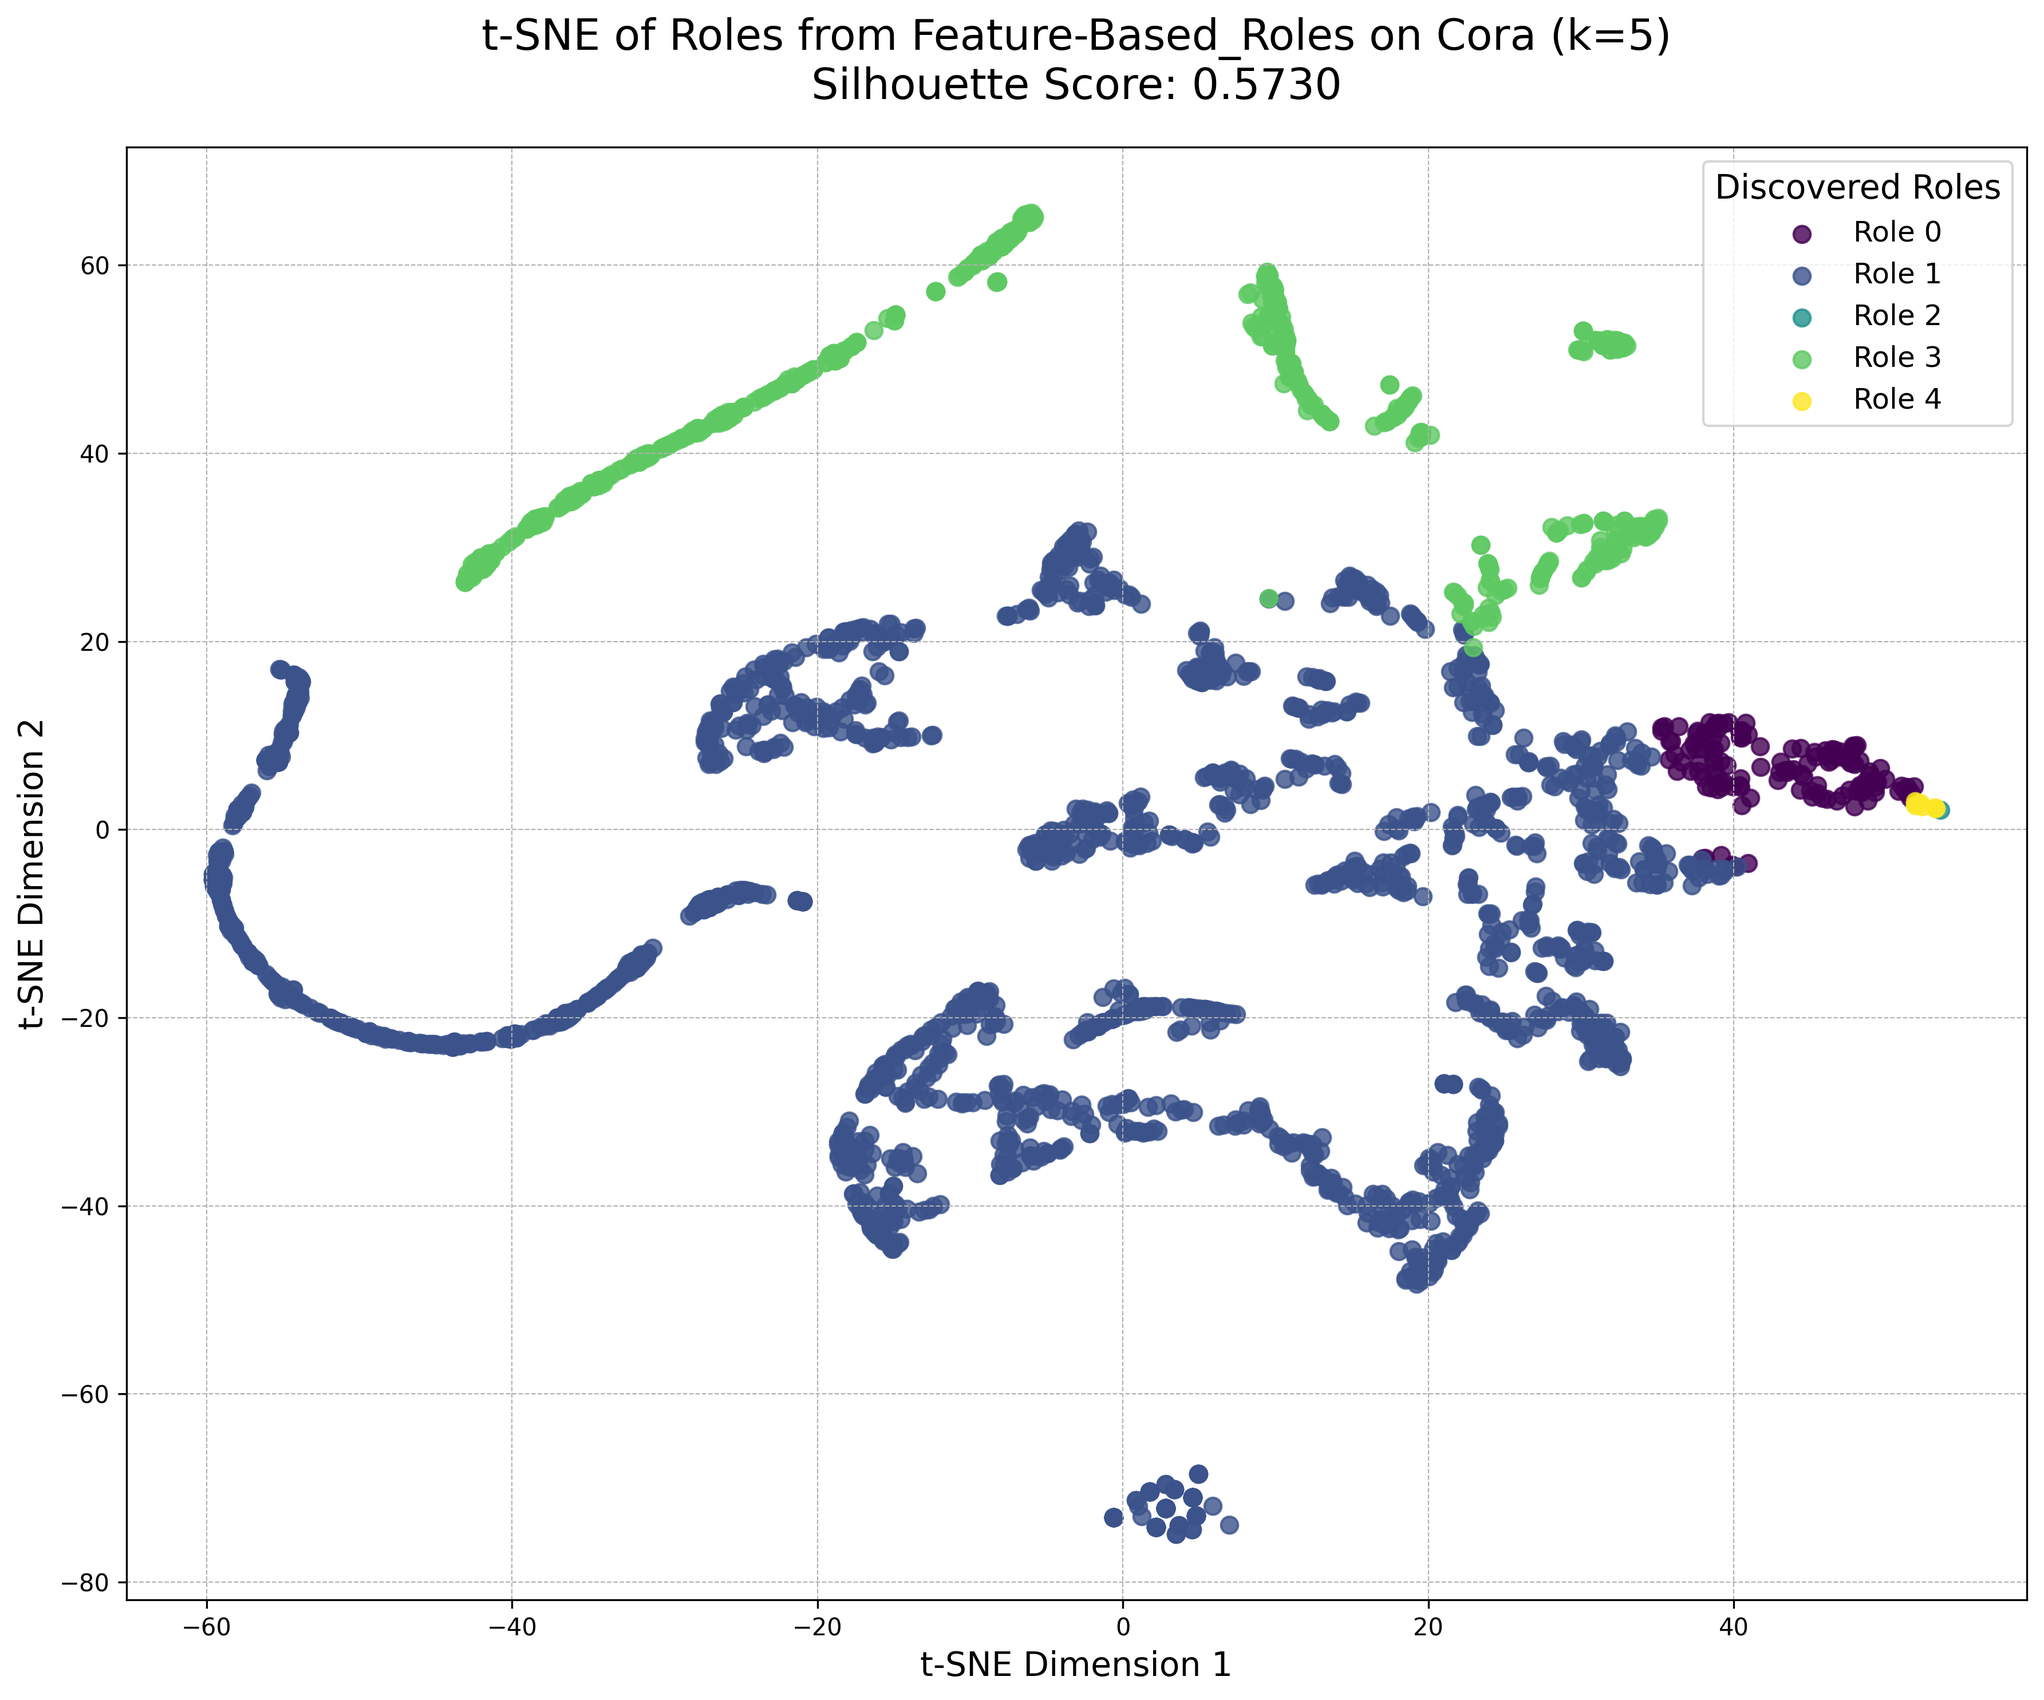
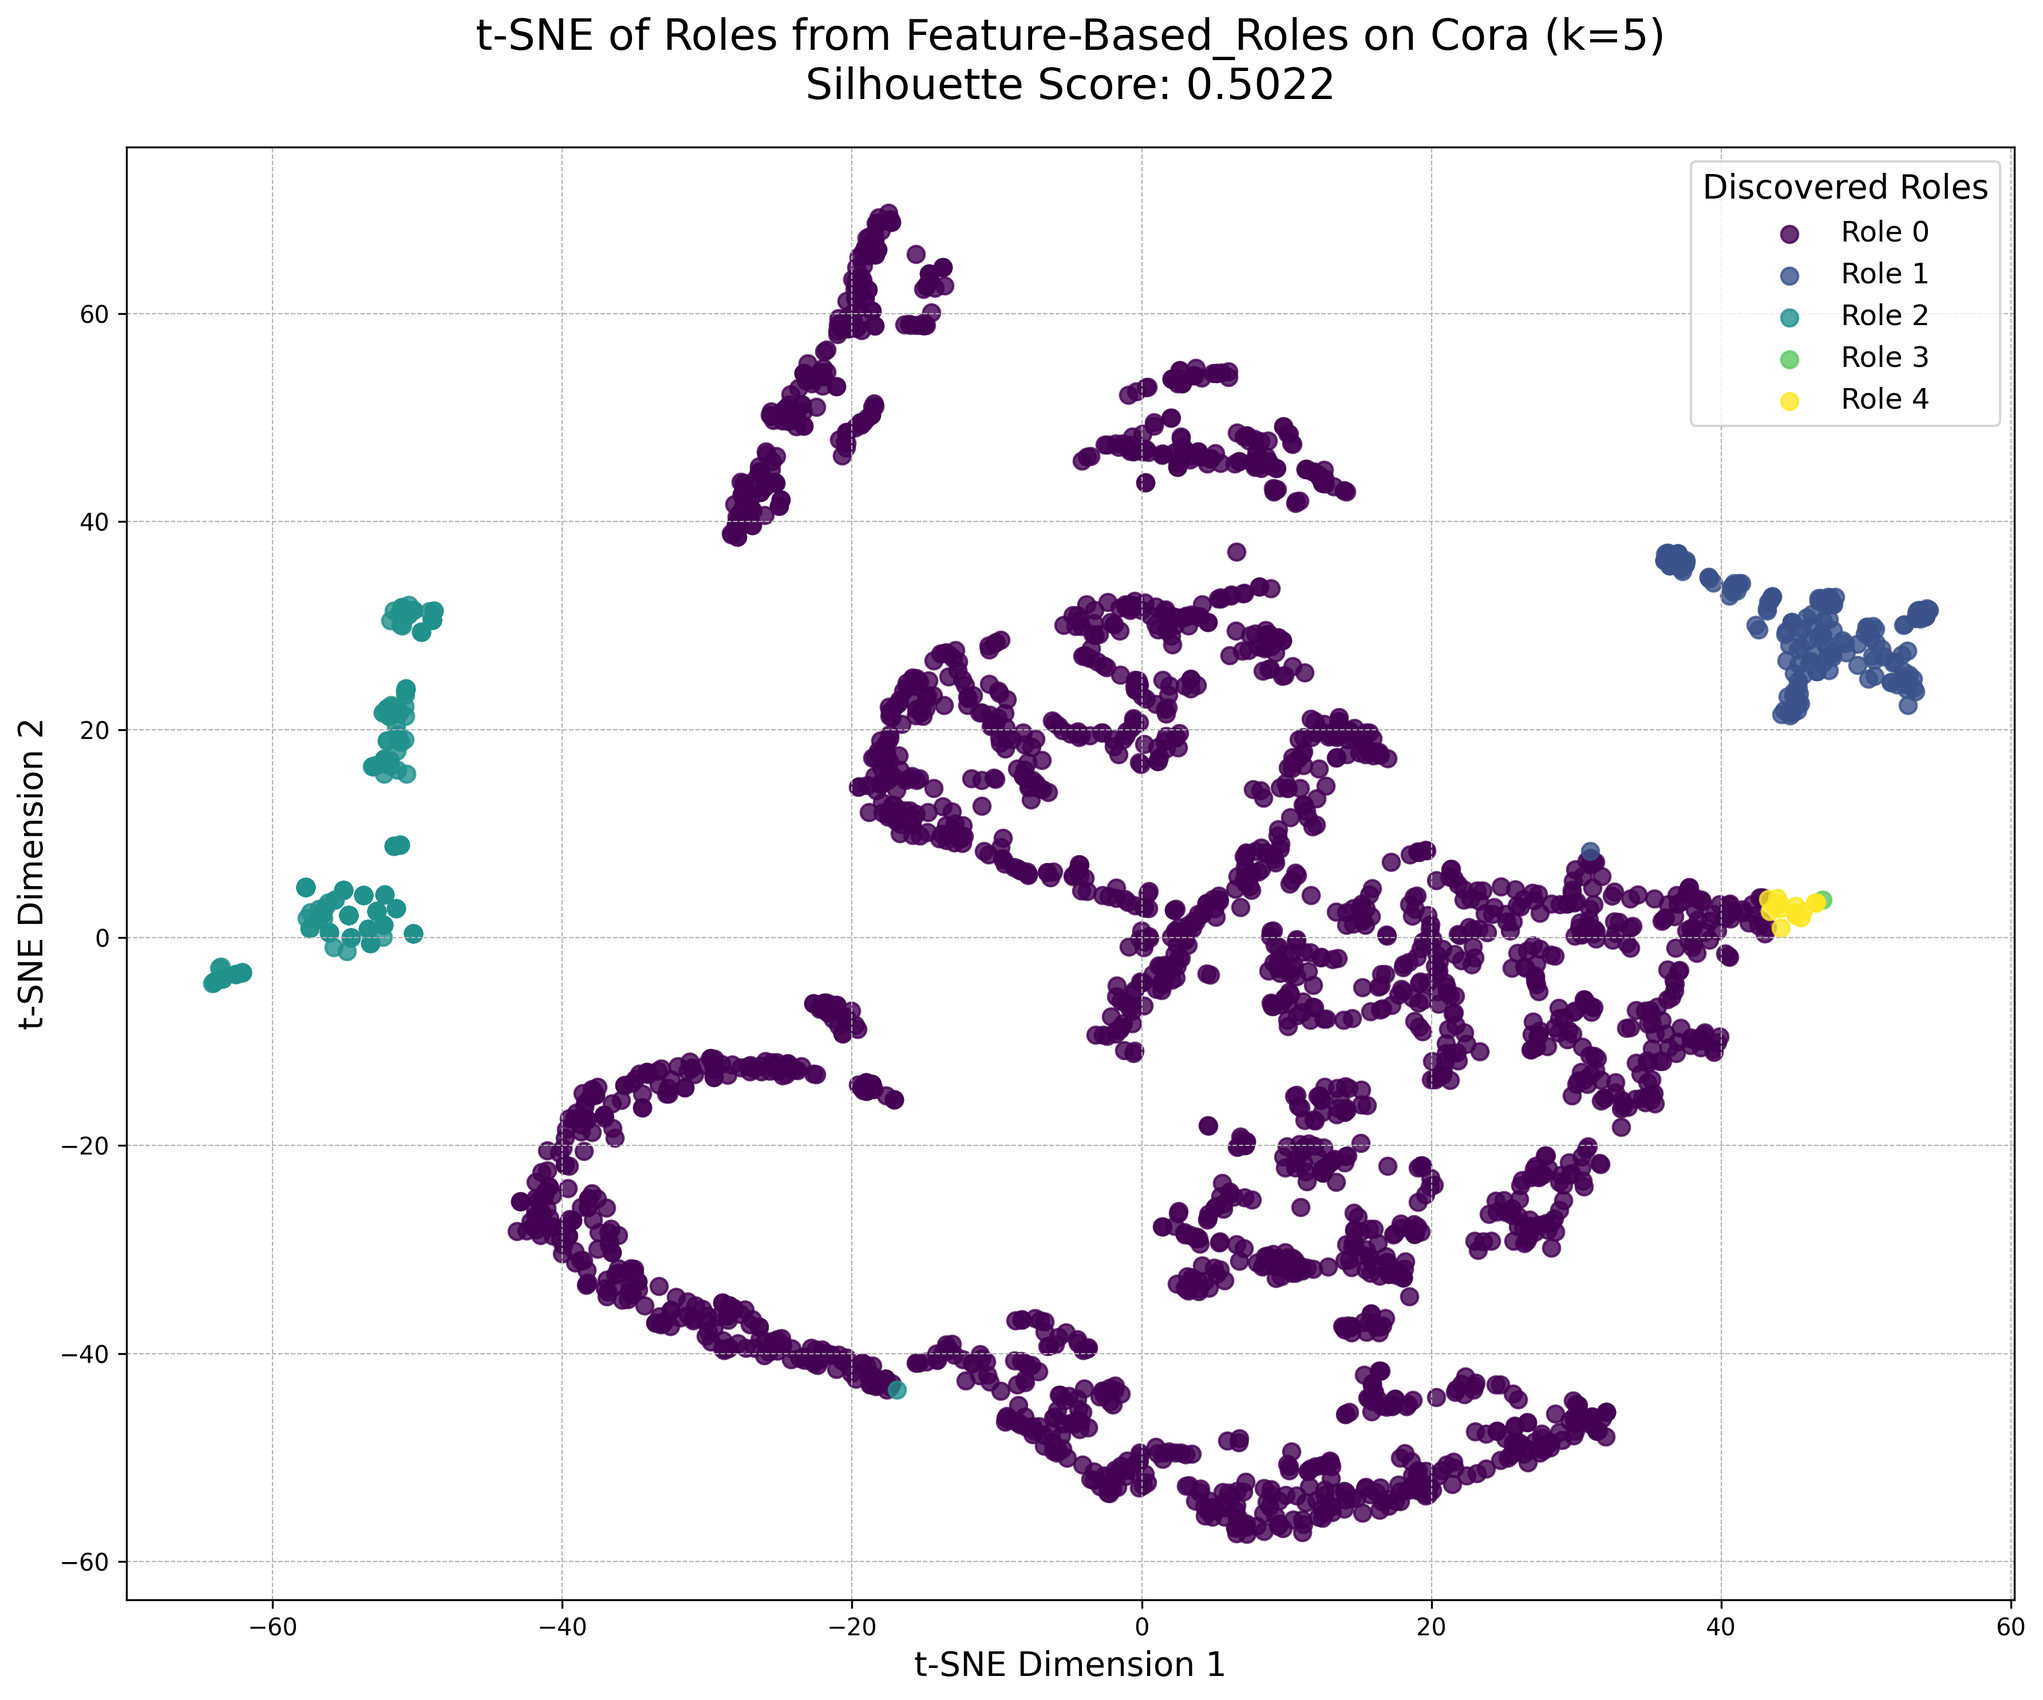
Added function to build the comparison plots

diff --git a/project/role_discovery/RoleDiscoveryExperiment.py b/project/role_discovery/RoleDiscoveryExperiment.py
@@ -1,13 +1,28 @@
 import torch
-from torch_geometric.datasets import Planetoid
+from torch_geometric.datasets import Planetoid, GNNBenchmarkDataset, Actor
 from sklearn.metrics import silhouette_score, davies_bouldin_score, calinski_harabasz_score
 import os
 import pandas as pd
+import matplotlib.pyplot as plt
+import numpy as np
+import seaborn as sns
 
 from models.RoleDiscoveryModel import RoleDiscoveryModel
 from models.FeatureBasedRoles import FeatureBasedRoles
 from models.GNNEmbedder import GNNEmbedder
+from models.DGIEmbedder import DGIEmbedder
 from utils.visualization import visualize_roles_tsne
+
+def get_dataset(name: str, root: str = '/tmp/'):
+    path = os.path.join(root, name)
+    if name.lower() == 'cora':
+        return Planetoid(root=path, name='Cora')
+    elif name.lower() == 'cluster':
+        return GNNBenchmarkDataset(root=path, name='CLUSTER')
+    elif name.lower() == 'actor':
+        return Actor(root=path)
+    else:
+        raise ValueError(f"Unknown dataset: {name}")
 
 def run_role_discovery_experiment(dataset_name: str):
 
@@ -19,14 +34,15 @@ def run_role_discovery_experiment(dataset_name: str):
     os.makedirs(output_dir, exist_ok=True)
     print(f"Results will be saved to: {output_dir}")
 
-    dataset = Planetoid(root='/tmp/' + dataset_name, name=dataset_name)
+    dataset = get_dataset(dataset_name)
     data = dataset[0]
     print(f"Successfully loaded '{dataset_name}' dataset.")
     print(f"Graph properties: {data.num_nodes} nodes, {data.num_edges} edges, {data.num_features} features.")
 
     models_to_test = {
         "Feature-Based_Roles": FeatureBasedRoles(),
-        "GNN_Embedder_GAE": GNNEmbedder(hidden_channels=128, emb_dim=32)
+        "GNN_Embedder_GAE": GNNEmbedder(hidden_channels=128, emb_dim=32),
+        "GNN_Embedder_DGI": DGIEmbedder(in_channels=data.num_features, hidden_channels=128)
     }
 
     k_values = [3, 4, 5, 6, 7] 
@@ -81,13 +97,71 @@ def run_role_discovery_experiment(dataset_name: str):
             plot_path = os.path.join(output_dir, f"{model_name}_k{best_k}_tsne.png")
             visualize_roles_tsne(embeddings, role_labels, viz_title, best_score, save_path=plot_path)
 
-def main():
-    datasets_to_run = ['Cora'] 
+def generate_comparison_summary(datasets_to_run: list):
+    print("\n" + "#"*60)
+    print("GENERATING COMPARISON SUMMARY TABLES AND PLOTS")
+    print("#"*60)
+
+    all_results = []
+    for dataset_name in datasets_to_run:
+        output_dir = f"results/role_discovery/{dataset_name}"
+        model_names = ["Feature-Based_Roles", "GNN_Embedder_GAE", "GNN_Embedder_DGI"]
+        
+        for model_name in model_names:
+            csv_path = os.path.join(output_dir, f"{model_name}_clustering_metrics.csv")
+            if os.path.exists(csv_path):
+                df = pd.read_csv(csv_path, index_col='k')
+                best_row = df.loc[df['Silhouette Score'].idxmax()]
+                all_results.append({
+                    "Dataset": dataset_name,
+                    "Model": model_name,
+                    "Best k": int(best_row.name),
+                    "Silhouette Score": best_row["Silhouette Score"],
+                    "Davies-Bouldin Index": best_row["Davies-Bouldin Index"],
+                    "Calinski-Harabasz Index": best_row["Calinski-Harabasz Index"]
+                })
+            else:
+                print(f"Warning: {csv_path} not found. Skipping.")
+
+    summary_df = pd.DataFrame(all_results)
+    summary_df_path = "results/role_discovery/comparison_summary.csv"
+    summary_df.to_csv(summary_df_path, index=False)
+    print(f"Comparison summary table saved to {summary_df_path}")
+    print("\n### Overall Comparison Summary")
+    print(summary_df.to_string(float_format="%.4f"))
+
+    fig, axes = plt.subplots(nrows=1, ncols=3, figsize=(20, 7), sharey=False)
+    metrics = ["Silhouette Score", "Davies-Bouldin Index", "Calinski-Harabasz Index"]
+    titles = ["Best Silhouette Score", "Best Davies-Bouldin Index (Lower is Better)", "Best Calinski-Harabasz Index (Higher is Better)"]
     
+    palette = sns.color_palette("rocket", n_colors=len(summary_df['Model'].unique()))
+    color_map = {model: palette[i] for i, model in enumerate(summary_df['Model'].unique())}
+
+    for i, metric in enumerate(metrics):
+        ax = axes[i]
+        plot_df = summary_df.pivot(index='Dataset', columns='Model', values=metric)
+        plot_df.plot(kind='bar', ax=ax, rot=0, color=[color_map[col] for col in plot_df.columns])
+        ax.set_title(titles[i])
+        ax.set_ylabel(metric)
+        ax.tick_params(axis='x', rotation=45)
+        ax.legend(title='Model', bbox_to_anchor=(1.05, 1), loc='upper left')
+        
+        for container in ax.containers:
+            ax.bar_label(container, fmt='%.2f', label_type='edge')
+
+    plt.tight_layout()
+    plot_save_path = "results/role_discovery/comparison_metrics_plot.png"
+    plt.savefig(plot_save_path)
+    print(f"Comparison metrics plot saved to {plot_save_path}")
+    plt.close()
+
+
+def main():
+    datasets_to_run = ['Cora', 'CLUSTER', 'Actor']
     for dataset in datasets_to_run:
         run_role_discovery_experiment(dataset)
-        
     print("\nAll role discovery experiments finished successfully.")
+    generate_comparison_summary(datasets_to_run)
 
 if __name__ == '__main__':
     main()

diff --git a/project/role_discovery/models/FeatureBasedRoles.py b/project/role_discovery/models/FeatureBasedRoles.py
@@ -9,45 +9,69 @@ from torch_geometric.utils import to_networkx
 from .RoleDiscoveryModel import RoleDiscoveryModel
 
 class FeatureBasedRoles(RoleDiscoveryModel):
-
     def __init__(self):
         print("Initialized Feature-Based Role Discovery Model.")
         self.scaler = StandardScaler()
         self.node_features = None
 
-    def _extract_node_features(self, G: nx.Graph) -> np.ndarray:
+    def _extract_node_features(self, data: Data) -> np.ndarray:
         if self.node_features is not None:
             return self.node_features
 
-        print("Extracting node-level structural features (Degree, Betweenness, PageRank, Clustering Coeff)...")
+        print("Extracting a comprehensive set of node-level structural features...")
+        
+        G_directed = to_networkx(data, to_undirected=False)
+        G_undirected = to_networkx(data, to_undirected=True)
+
+        ##### Feature Extraction #####
+        # Basic Centrality Measures
+        degree_centrality = nx.degree_centrality(G_undirected)
+        closeness_centrality = nx.closeness_centrality(G_undirected)
+        betweenness_centrality = nx.betweenness_centrality(G_undirected, k=min(100, len(G_undirected)-1)) # k for approximation
+        
+        # Influence-based Centrality
+        eigenvector_centrality = nx.eigenvector_centrality_numpy(G_undirected)
+        
+        pagerank = nx.pagerank(G_undirected, alpha=0.85)
+
+        # Local Structure Measures
+        clustering_coefficient = nx.clustering(G_undirected)
+        
+        #  Directed Graph Features (if applicable)
+        if data.is_directed():
+            in_degree_centrality = {n: d for n, d in G_directed.in_degree(weight=None)}
+            out_degree_centrality = {n: d for n, d in G_directed.out_degree(weight=None)}
+        else: 
+            in_degree_centrality = {n: 0 for n in G_undirected.nodes()}
+            out_degree_centrality = {n: 0 for n in G_undirected.nodes()}
+
         features = {}
-        
-        degree_centrality = nx.degree_centrality(G)
-        betweenness_centrality = nx.betweenness_centrality(G)
-        pagerank = nx.pagerank(G)
-        
-        clustering_coefficient = nx.clustering(G)
-        
-        for node in sorted(G.nodes()):
+        for node in sorted(G_undirected.nodes()):
             features[node] = [
                 degree_centrality.get(node, 0),
+                closeness_centrality.get(node, 0),
                 betweenness_centrality.get(node, 0),
+                eigenvector_centrality.get(node, 0),
                 pagerank.get(node, 0),
-                clustering_coefficient.get(node, 0)
+                clustering_coefficient.get(node, 0),
+                in_degree_centrality.get(node, 0),
+                out_degree_centrality.get(node, 0),
             ]
         
-        feature_matrix = np.array([features[node] for node in sorted(G.nodes())])
+        feature_matrix = np.array([features[node] for node in sorted(G_undirected.nodes())])
+        
+        feature_matrix = np.nan_to_num(feature_matrix, nan=0.0, posinf=0.0, neginf=0.0)
         
         self.node_features = self.scaler.fit_transform(feature_matrix)
+        
+        print(f"Feature extraction complete. Matrix shape: {self.node_features.shape}")
         return self.node_features
 
-    def predict(self, graph_data: Data, k: int) -> tuple[torch.Tensor, torch.Tensor]:
-        nx_graph = to_networkx(graph_data, to_undirected=True)
-        
-        scaled_features = self._extract_node_features(nx_graph)
+    def predict(self, data: Data, k: int) -> tuple[torch.Tensor, torch.Tensor]:
+        scaled_features = self._extract_node_features(data)
         
         print(f"Clustering {scaled_features.shape[0]} nodes into {k} roles using KMeans...")
-        kmeans = KMeans(n_clusters=k, random_state=42, n_init=10, verbose=0)
+        kmeans = KMeans(n_clusters=k, random_state=42, n_init='auto', verbose=0)
         role_labels = kmeans.fit_predict(scaled_features)
         
         return torch.from_numpy(scaled_features).float(), torch.from_numpy(role_labels).int()

diff --git a/project/role_discovery/models/DGIEmbedder.py b/project/role_discovery/models/DGIEmbedder.py
@@ -1,0 +1,65 @@
+import torch
+import torch.nn as nn
+from torch_geometric.data import Data
+from torch_geometric.nn import GCNConv
+from torch_geometric.nn.models import DeepGraphInfomax
+from sklearn.cluster import KMeans
+
+from .RoleDiscoveryModel import RoleDiscoveryModel
+
+class Encoder(nn.Module):
+    def __init__(self, in_channels, hidden_channels):
+        super(Encoder, self).__init__()
+        self.conv = GCNConv(in_channels, hidden_channels, cached=True)
+        self.prelu = nn.PReLU(hidden_channels)
+
+    def forward(self, x, edge_index):
+        x = self.conv(x, edge_index)
+        return self.prelu(x)
+
+class DGIEmbedder(RoleDiscoveryModel):
+    def __init__(self, in_channels, hidden_channels, epochs=300, lr=0.001):
+        self.in_channels = in_channels
+        self.hidden_channels = hidden_channels
+        self.epochs = epochs
+        self.lr = lr
+        self.model = None
+        self.embeddings = None
+
+    def train(self, data: Data):
+        def corruption(x, edge_index):
+            return x[torch.randperm(x.size(0))], edge_index
+
+        encoder = Encoder(data.num_features, self.hidden_channels)
+        self.model = DeepGraphInfomax(
+            encoder=encoder,
+            summary=lambda z, *args, **kwargs: z.mean(dim=0),
+            corruption=corruption,
+            hidden_channels=self.hidden_channels 
+        )
+
+        optimizer = torch.optim.Adam(self.model.parameters(), lr=self.lr, weight_decay=5e-4)
+
+        for epoch in range(1, self.epochs + 1):
+            self.model.train()
+            optimizer.zero_grad()
+            pos_z, neg_z, summary = self.model(data.x, data.edge_index)
+            loss = self.model.loss(pos_z, neg_z, summary)
+            loss.backward()
+            optimizer.step()
+
+            if epoch % 50 == 0:
+                print(f'Epoch: {epoch:03d}, Loss: {loss:.4f}')
+
+        with torch.no_grad():
+            self.model.eval()
+            self.embeddings = self.model.encoder(data.x, data.edge_index).detach()
+
+    def predict(self, data: Data, k: int) -> tuple[torch.Tensor, torch.Tensor]:
+        if self.embeddings is None:
+            self.train(data)
+
+        kmeans = KMeans(n_clusters=k, random_state=42, n_init='auto')
+        role_labels = kmeans.fit_predict(self.embeddings.cpu().numpy())
+
+        return self.embeddings, torch.from_numpy(role_labels).int()

diff --git a/project/role_discovery/models/GNNEmbedder.py b/project/role_discovery/models/GNNEmbedder.py
@@ -41,15 +41,12 @@ class GNNEmbedder(RoleDiscoveryModel):
     def train(self, graph_data: Data):
         print("Starting GAE training with validation and early stopping...")
 
-        # Use node degrees as features
         deg = degree(graph_data.edge_index[0], graph_data.num_nodes).view(-1, 1)
         
-        # Apply feature normalization
         transform = T.NormalizeFeatures()
         structural_data = Data(x=deg, edge_index=graph_data.edge_index)
         structural_data = transform(structural_data)
 
-        # Split data into training, validation, and test sets
         split_transform = T.RandomLinkSplit(
             num_val=self.val_ratio,
             num_test=self.test_ratio,
@@ -58,7 +55,6 @@ class GNNEmbedder(RoleDiscoveryModel):
         )
         train_data, val_data, test_data = split_transform(structural_data)
 
-        # Initialize the GAE model
         in_channels = train_data.num_features
         encoder = GCNEncoder(in_channels, self.hidden_channels, self.emb_dim)
         self.model = GAE(encoder)
@@ -114,7 +110,6 @@ class GNNEmbedder(RoleDiscoveryModel):
         else:
             print("Warning: Training finished, but no best model was saved. Using the last state.")
 
-        # Save the best model
         if best_model_state is not None:
             project_root = Path(__file__).resolve().parents[2]
             model_save_path = project_root / 'best_gae_model.pt'
